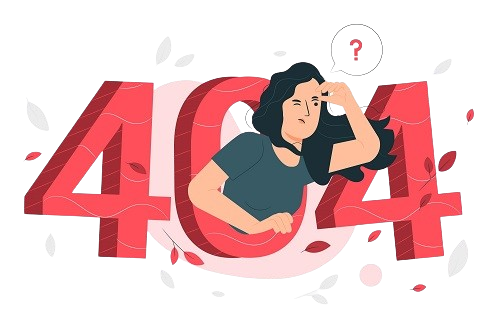
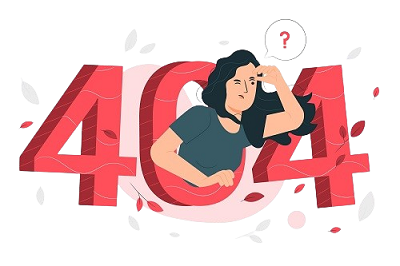
Ajustes e finalização

diff --git a/templates/contacts.html b/templates/contacts.html
@@ -6,6 +6,8 @@
 
 <h2>Faça Contato</h2>
 
+<img src="/static/img/contacts.jpg" alt="Faça Contato" class="banner">
+
 {% if page.success %}
 
 <div class="success">
@@ -60,7 +62,17 @@
 {# Bloco dentro de <aside></aside> de `layout.html` #}
 {% block aside %}
 
-<h3>+ contatos</h3>
-<p>você pode nos encontrar nas redes sociais:</p>
+<h3><i class="fa-solid fa-plus fa-fw"></i> Contatos</h3>
+<p>Você também pode nos encontrar e contactar nas redes sociais:</p>
+
+<div class="aside-social">
+    <a href="https://facebook.com/flaskblog" title="Facebook" target="_blank" style="color: #1877f2;"><i class="fa-brands fa-square-facebook fa-fw"></i></a>
+    <a href="https://linkedin.com/in/flaskblog" title="LinkedIn" target="_blank" style="color: #0a66c2;"><i class="fa-brands fa-linkedin fa-fw"></i></a>
+    <a href="https://youtube.com/flaskblog" title="Youtube" target="_blank" style="color: #ff0000;"><i class="fa-brands fa-square-youtube fa-fw"></i></a>
+    <a href="https://github.com/flaskblog" title="GitHub" target="_blank" style="color: #6e5494;"><i class="fa-brands fa-square-github fa-fw"></i></a>
+    <a href="https://instagram.com/flaskblog" title="Instagram" target="_blank" style="color: #f77737;"><i class="fa-brands fa-square-instagram fa-fw"></i></a>
+    <a href="https://ws.com/+552198877665" title="WhatsApp" target="_blank" style="color: #075e54;"><i class="fa-brands fa-square-whatsapp fa-fw"></i></a>
+</div>
+
 
 {% endblock %}

diff --git a/templates/about.html b/templates/about.html
@@ -4,6 +4,8 @@
 
 <h2>Sobre</h2>
 
+<img src="/static/img/about.jpg" alt="Sobre..." class="banner">
+
 <p>Este é um site sobre tecnologia com foco no Python e na biblioteca Flask.</p>
 
 <h3>Sobre o site</h3>
@@ -25,10 +27,36 @@
 <p>Este é um site colaborativo onde você pode participar comentando os artigos ou mesmo enviando novos artigos.</p>
 <p>Não vamos te pagar nada por isso, mas, quando ficarmos famosos, podemos renegociar.</p>
 
+<h3>Dúvidas?</h3>
+
+<p>Se precisar de mais informações, <a href="/contacts">entre em contato conosco</a>.</p>
+
 {% endblock%}
 
 {% block aside %}
 
+<h3>Links úteis</h3>
 
+<ul>
+    <li><a href="/policies">Sua privacidade</a></li>
+    <li><a href="/contacts">Faça contato</a></li>
+</ul>
+
+&nbsp;
+
+<h3>Artigos recentes</h3>
+
+<div class="aside-grid">
+
+    {% for article in page.articles %}
+
+    <div class="aside-article" onclick="location.href = '/view/{{ article.art_id }}'">
+        <img src="{{ article.art_thumbnail }}" alt="{{ article.art_title }}">
+        <div>{{ article.art_title }}</div>
+    </div>
+
+    {% endfor %}
+
+</div>
 
 {% endblock %}

diff --git a/templates/policies.html b/templates/policies.html
@@ -3,6 +3,9 @@
 {% block article %}
 
 <h2>Política de Privacidade</h2>
+
+<img src="/static/img/policies.jpg" alt="Política de Privacidade" class="banner">
+
 <p>Bem-vindo ao FlaskBlog. Estamos comprometidos em proteger sua privacidade e garantir que suas informações pessoais sejam protegidas.</p>
 
 <h3>Informações que Coletamos</h3>
@@ -41,8 +44,22 @@
 <ul class="aside">
     <li><a href="/about">Sobre</a></li>
     <li><a href="/contacts">Faça contato</a></li>
-    <li><a href="/policies">Sua privacidade</a></li>
 </ul>
 &nbsp;
+
+<h3><i class="fa-solid fa-plus fa-fw"></i> Artigos</h3>
+
+<div class="aside-grid">
+
+    {% for article in page.articles %}
+
+    <div class="aside-article" onclick="location.href = '/view/{{ article.art_id }}'">
+        <img src="{{ article.art_thumbnail }}" alt="{{ article.art_title }}">
+        <div>{{ article.art_title }}</div>
+    </div>
+
+    {% endfor %}
+
+</div>
 
 {% endblock %}

diff --git a/static/css/contacts.css b/static/css/contacts.css
@@ -65,3 +65,14 @@
     display: table;
     margin-left: 2rem;    
 }
+
+.aside-social {
+    display: flex;
+    flex-wrap: wrap;
+    justify-content: space-around;
+    align-items: center;
+}
+
+.aside-social a {
+    font-size: 3.5rem;
+}

diff --git a/static/css/layout.css b/static/css/layout.css
@@ -346,3 +346,11 @@ button {
         grid-template-columns: 1fr;
     }
 }
+
+.banner {
+    display: block;
+    margin: auto;
+    border-radius: .3rem;
+    width: 100%;
+    max-width: 400px;
+}

diff --git a/index.py b/index.py
@@ -280,18 +280,28 @@ def comment():
 
 @app.route('/about')
 def about():
+
+    articles = get_all(mysql, 4)
+
+    # print('\n\n\n', articles, '\n\n\n')
+
     toPage = {
         'title': 'Sobre',
-        'css': 'about.css'
+        'css': 'about.css',
+        'articles': articles
     }
     return render_template('/about.html', page=toPage)
 
 
 @app.route('/policies')
 def policies():
+
+    articles = get_random(mysql)
+
     toPage = {
         'title': 'Políticas de Privacidade',
-        'css': 'about.css'
+        'css': 'about.css',
+        'articles': articles
     }
     return render_template('/policies.html', page=toPage)
 

diff --git a/functions/db_articles.py b/functions/db_articles.py
@@ -177,3 +177,21 @@ def search_articles(mysql, query, limit=0):
     cur.close()
 
     return articles
+
+
+def get_random(mysql, limit=4): # Obtém artigos aleatórios
+
+    sql = '''
+        SELECT art_id, art_title, art_thumbnail
+        FROM article
+        WHERE art_status = 'on'
+            AND art_date <= NOW()
+        ORDER BY RAND()
+        LIMIT %s
+    '''
+    cur = mysql.connection.cursor(MySQLdb.cursors.DictCursor)
+    cur.execute(sql, (limit,))
+    articles = cur.fetchall()
+    cur.close()
+
+    return articles
